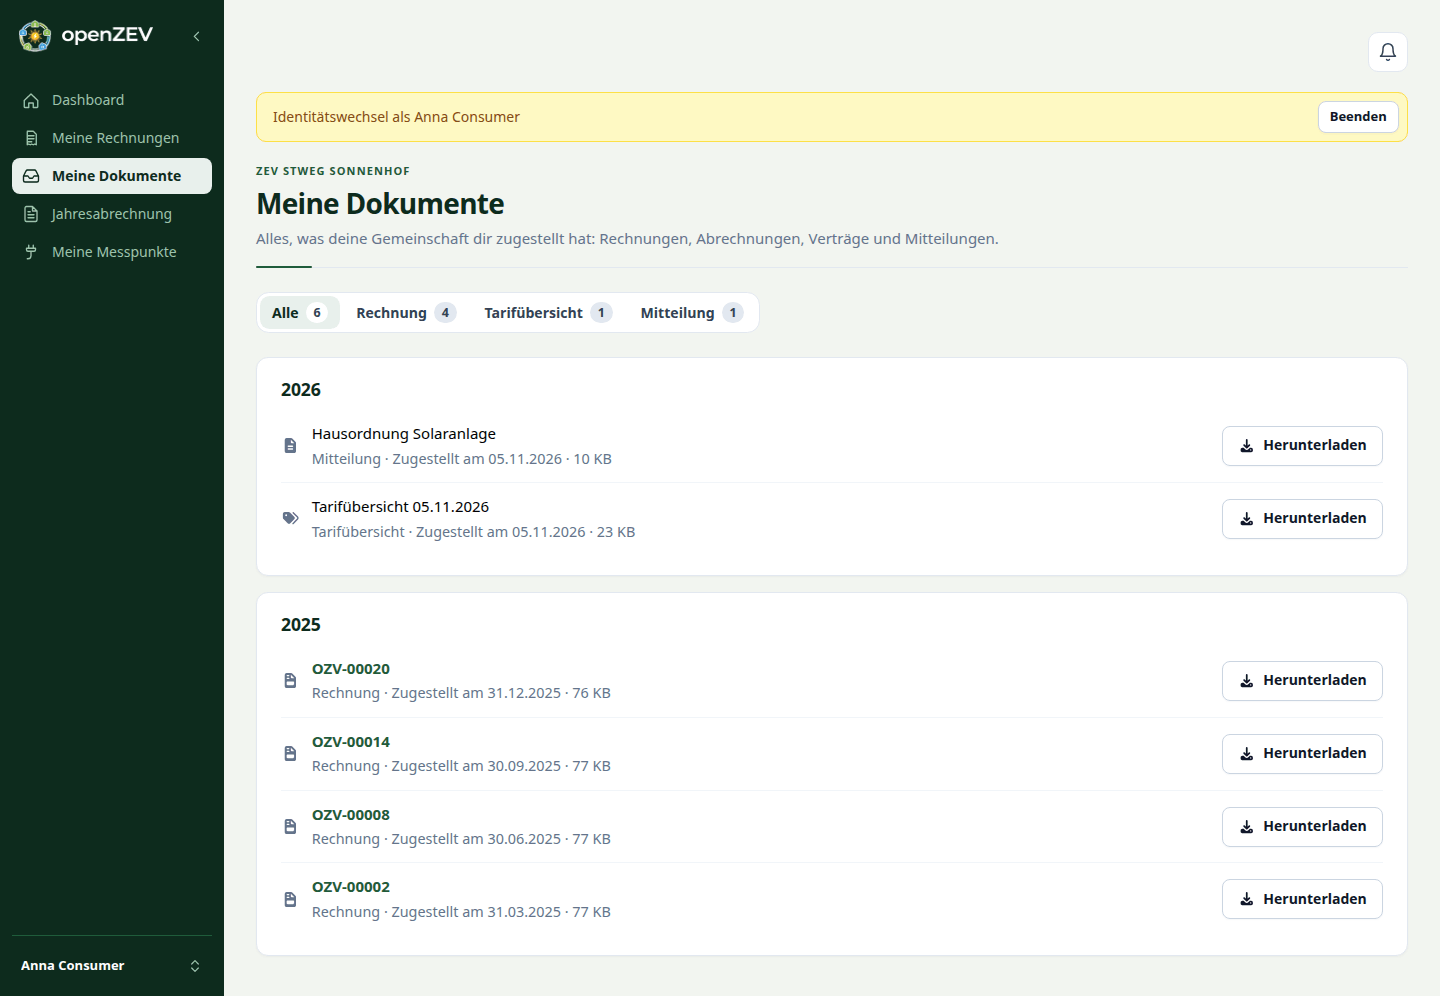
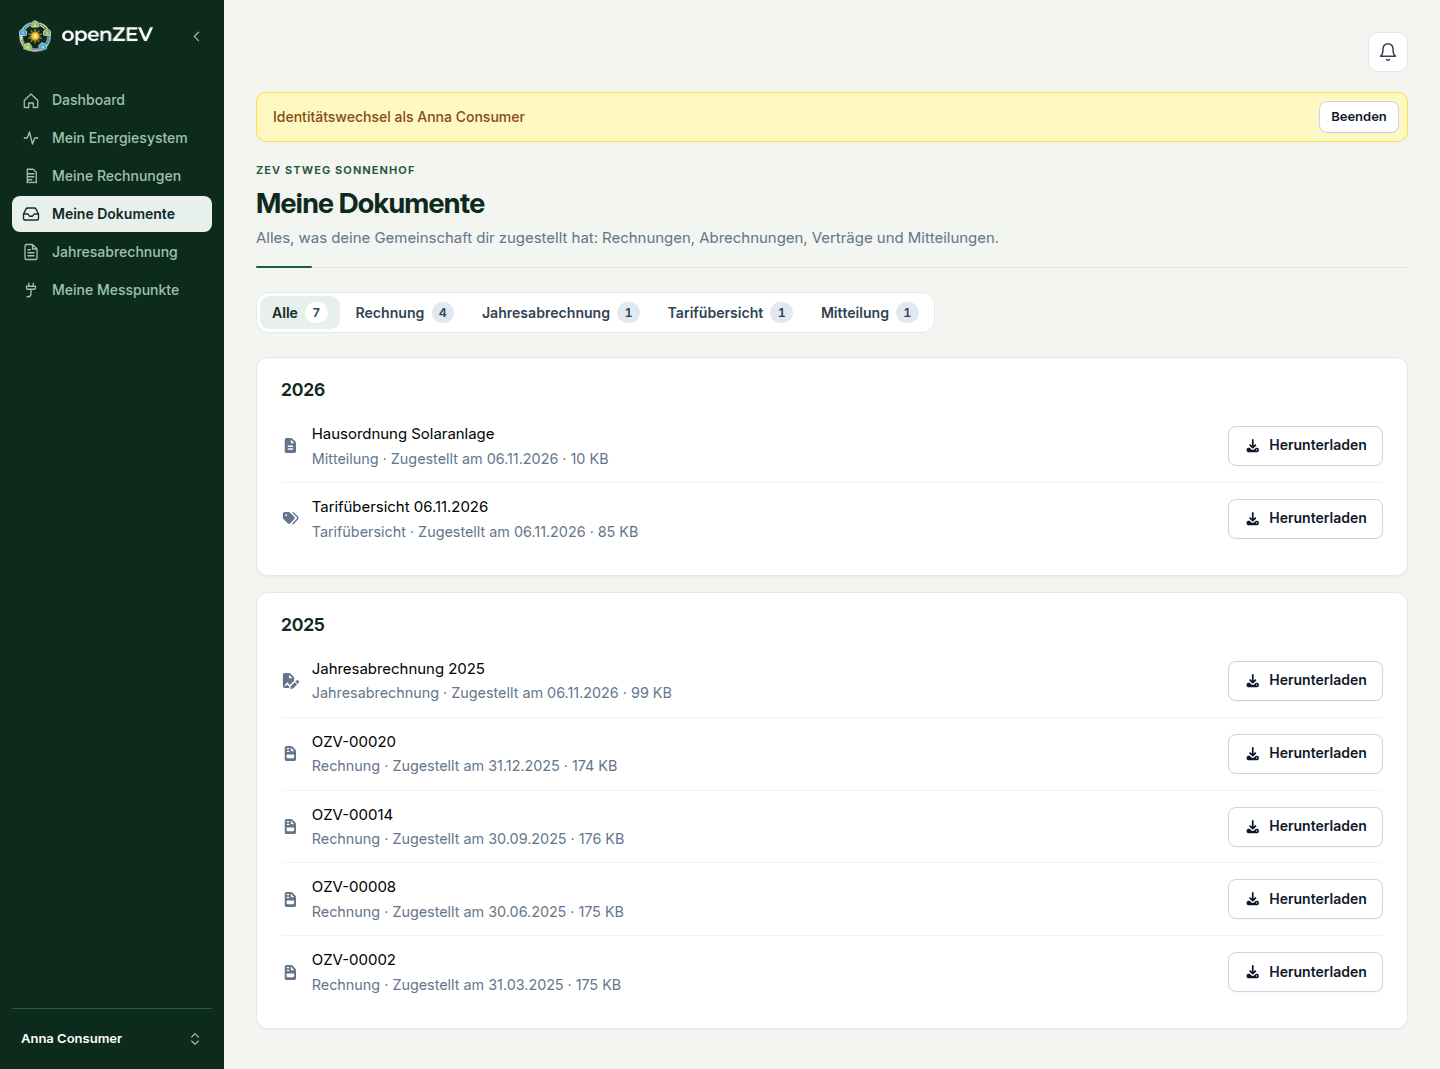
docs(inbox): regenerate the participant guide screenshots, seed an issued statement (#862)
The Annual statement page reads the inbox, so the demo seed issues Anna's
statement of the year just ended and the 23b capture selects that year.

diff --git a/frontend/screenshots/capture.spec.ts b/frontend/screenshots/capture.spec.ts
@@ -700,7 +700,8 @@ test.describe('User Guide Screenshots', () => {
   test('23b-participant-annual-statement', async ({ page }) => {
     await impersonateDemoParticipant(page)
     await navigateTo(page, '/me/statement')
-    await page.getByRole('combobox', { name: 'Jahr', exact: true }).selectOption(String(new Date().getFullYear()))
+    // The page shows what the community issued: the demo seed issues Anna's statement of the year just ended.
+    await page.getByRole('combobox', { name: 'Jahr', exact: true }).selectOption(String(new Date().getFullYear() - 1))
     await page.waitForSelector('#yearly-documents-preview iframe[title]', { timeout: 30_000 })
     await assertPdfLoaded(page)
     await closePdfSidebar(page)

diff --git a/backend/zev/management/commands/seed_demo.py b/backend/zev/management/commands/seed_demo.py
@@ -1228,7 +1228,19 @@ class Command(BaseCommand):
                     participant=participant, kind=DocumentKind.OPERATOR,
                     title="Hausordnung Solaranlage", body=notice, file_name="hausordnung.pdf",
                 )
-            self.stdout.write(f"  Inbox: {delivered} invoices and credit notes backfilled, tariff overview and notice delivered")
+            # Anna's annual statement of the year just ended, so the participant's
+            # *Annual statement* page has a document to show (it reads the inbox).
+            from invoices.annual_statement import generate_annual_statement_pdf
+
+            year = today.year - 1
+            anna = main.participants.filter(user__email="anna@openzev.local").first()
+            if anna is not None:
+                deliver(
+                    participant=anna, kind=DocumentKind.ANNUAL_STATEMENT, title=f"Jahresabrechnung {year}",
+                    body=generate_annual_statement_pdf(anna, main, year, sent_only=True),
+                    file_name=f"jahresabrechnung-{year}.pdf", period=(date(year, 1, 1), date(year, 12, 31)),
+                )
+            self.stdout.write(f"  Inbox: {delivered} invoices and credit notes backfilled, tariff overview, notice and statement delivered")
         except Exception as exc:
             self.stdout.write(
                 self.style.WARNING(f"seed_demo: inbox skipped ({exc.__class__.__name__}: {exc})")
